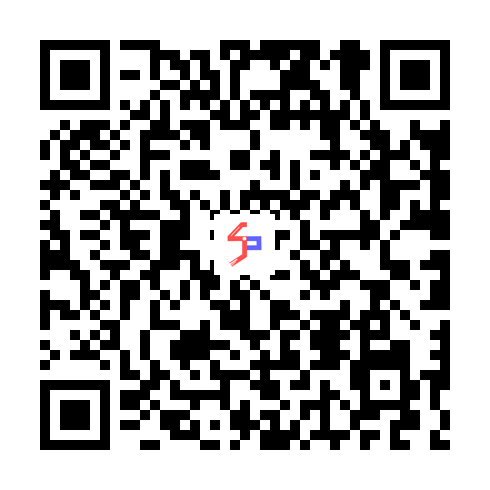
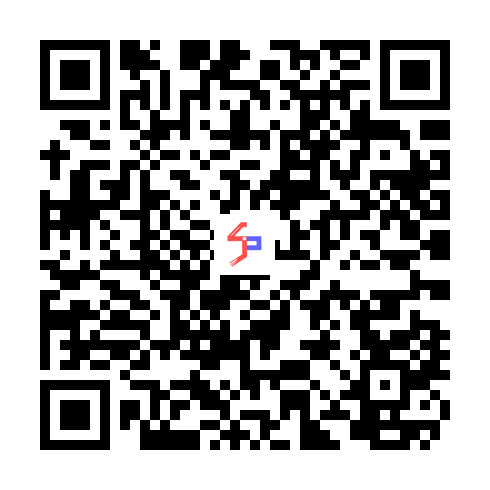
Adding New

Changed region(s): [[0.0612, 0.0612, 0.9184, 0.9184]]

diff --git a/handsign/handsignApplicationLetter.html b/handsign/handsignApplicationLetter.html
@@ -43,9 +43,9 @@
                     <p>This website serves as a guarantor of the authenticity of the digital signature of Samuel Jovial
                         Pardede, S.Kom.</p>
                     <p>The document you are using is a:</p>
-                    <h3>"Curriculum Vitae"</h3>
+                    <h3>"Application Letter"</h3>
                     <div class="qr-code-placeholder">
-                        <img src="assets/img/CV QR Code.png"
+                        <img src="assets/img/AL QR Code.png"
                             alt="QR Code Verifikasi">
                         <p class="small-text">Make sure its the same QR Code</p>
                     </div>
